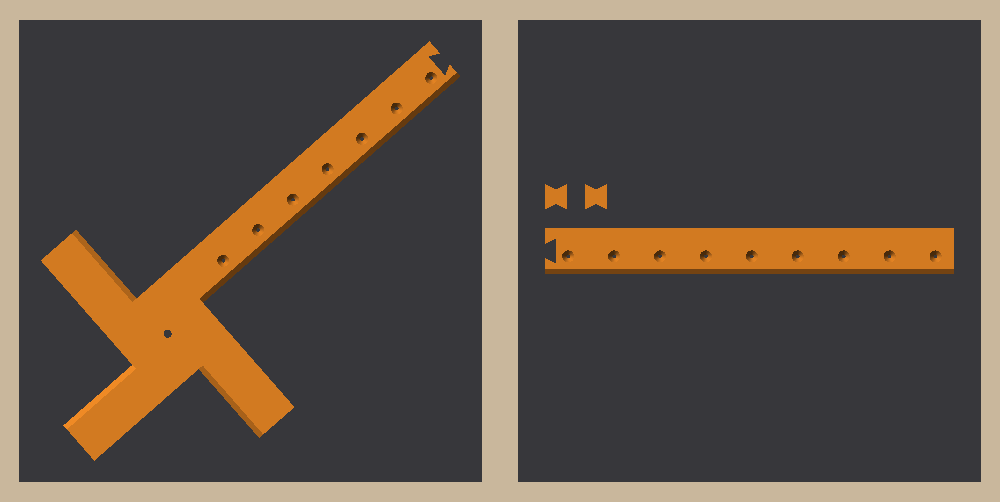
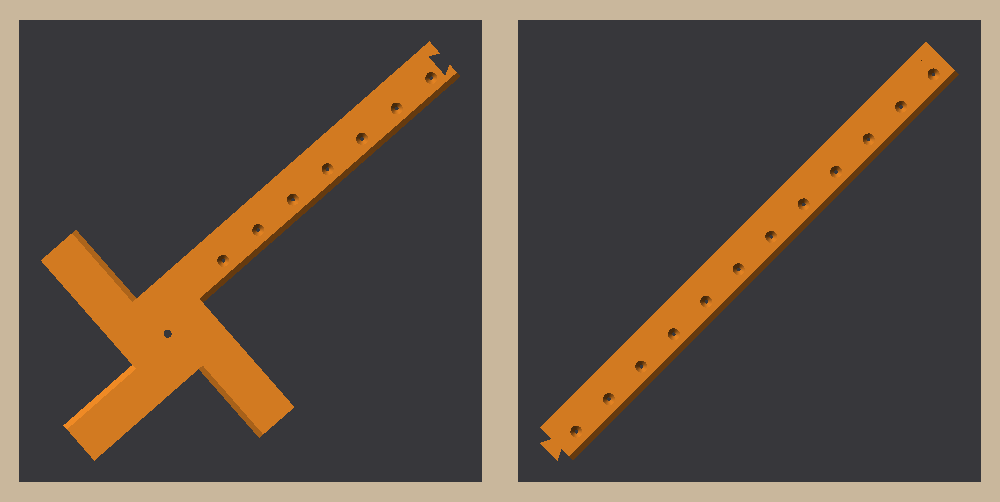
Circle jig: 20" radius on two plates, the key built onto the extension as a dovetail tab

Changed region(s): [[0.527, 0.0896, 0.961, 0.9263], [0.527, 0.3586, 0.62, 0.4183]]

diff --git a/examples/circle-jig/circle_jig/parts.py b/examples/circle-jig/circle_jig/parts.py
@@ -5,13 +5,13 @@ has one straight edge exactly on a radius. Draw along the bar for a radius; turn
 arm's edge lies on that line and the bar is on the next quarter.
 
 The bar is longer than the bed, so it prints as a hub piece (the arms and the bar out past split_after) and a
-straight extension, butted at split_x and locked by a bow-tie key dropped in flush across the seam."""
+straight extension, butted at split_x; a dovetail tab on the extension's end drops into the hub from above."""
 import math
 
 from build123d import Align, Box, Cone, Cylinder, Part, Plane, Polygon, Pos, Rot, Sketch, Text, extrude
 
 from cadkit.plates import Plate
-from cadkit.shapes import bowtie, rect
+from cadkit.shapes import dovetail, rect
 
 from circle_jig.params import P, Params
 
@@ -54,36 +54,29 @@ def jig(p: Params = P) -> Part:
     return out
 
 
-def _piece(p: Params, x0: float, x1: float, label: str) -> Part:
-    """The jig between x0 and x1, less the key's socket."""
+def tab(p: Params, clearance: float = 0.0) -> Part:
+    """Dovetail with its neck on the seam, widening back into the hub (-x); clearance grows it for the socket."""
+    profile = Pos(p.split_x, p.w / 2) * Rot(0, 0, 180) * dovetail(0, 0, p.tab_neck, p.tab_head, p.tab_len, clearance)
+    return Pos(0, 0, -1) * extrude(profile, p.t + 2)
+
+
+def _cut(p: Params, x0: float, x1: float) -> Part:
+    """The jig between x0 and x1."""
     big = 2 * p.bar_len
-    keep = Pos(x0, -big / 2, -1) * Box(x1 - x0, big, p.t + 2, align=(Align.MIN,) * 3)
-    socket = Pos(p.split_x, p.w / 2, -1) * extrude(bowtie(p.key_len, p.key_head, p.key_waist, p.fit_key), p.t + 2)
-    out = Part(((jig(p) & keep) - socket).solids())
-    out.label = label
-    return out
+    return jig(p) & Pos(x0, -big / 2, -1) * Box(x1 - x0, big, p.t + 2, align=(Align.MIN,) * 3)
 
 
 def hub(p: Params = P) -> Part:
-    """The arms and the bar out to the seam: on its own it draws up to split_after inches."""
-    return _piece(p, -2 * p.arm, p.split_x, "circle_jig_hub")
-
-
-def extension(p: Params = P) -> Part:
-    return _piece(p, p.split_x, p.bar_len + 1, "circle_jig_extension")
-
-
-def key(p: Params = P) -> Part:
-    """The bow-tie key in print orientation: flat, in the first quadrant."""
-    out = Pos(p.key_len / 2, p.key_head / 2, 0) * extrude(bowtie(p.key_len, p.key_head, p.key_waist), p.t)
-    out = Part(out.solids())
-    out.label = "circle_jig_key"
+    """The arms and the bar out to the seam, with the socket for the extension's tab: on its own it draws up to
+    split_after inches."""
+    out = Part((_cut(p, -2 * p.arm, p.split_x) - tab(p, p.fit_tab)).solids())
+    out.label = "circle_jig_hub"
     return out
 
 
-def key_in_place(p: Params = P) -> Part:
-    out = Pos(p.split_x - p.key_len / 2, p.w / 2 - p.key_head / 2, 0) * key(p)
-    out.label = "circle_jig_key"
+def extension(p: Params = P) -> Part:
+    out = Part((_cut(p, p.split_x, p.bar_len + 1) + (jig(p) & tab(p))).solids())
+    out.label = "circle_jig_extension"
     return out
 
 
@@ -101,26 +94,20 @@ def bed_angle(p: Params = P) -> float:
     return min((d / 10 for d in range(300, 601)), key=span)
 
 
-def _centred(p: Params, part: Part, dy: float = 0.0) -> Part:
+def _centred(p: Params, part: Part) -> Part:
     bb = part.bounding_box()
     bed_x, bed_y = p.printer.bed, p.printer.bed_y or p.printer.bed
-    out = Pos((bed_x - bb.max.X - bb.min.X) / 2, (bed_y - bb.max.Y - bb.min.Y) / 2 + dy, 0) * part
+    out = Pos((bed_x - bb.max.X - bb.min.X) / 2, (bed_y - bb.max.Y - bb.min.Y) / 2, 0) * part
     out.label = part.label
     return out
 
 
 def plates(p: Params = P) -> list[Plate]:
-    """Hub across the bed's diagonal (with the arms it's longer than the bed is wide); the extension along X with the
-    key, and a spare, beside it."""
+    """Each piece across its bed's diagonal: with the arms the hub is longer than the bed is wide, and so is the
+    extension."""
     turned = Rot(0, 0, bed_angle(p)) * hub(p)
     turned.label = "circle_jig_hub"
-    ext = _centred(p, Pos(-p.split_x, 0, 0) * extension(p))
+    ext = Rot(0, 0, 45) * extension(p)
     ext.label = "circle_jig_extension"
-    gap = 10.0
-    keys = []
-    for i, label in enumerate(("circle_jig_key", "circle_jig_key_spare")):
-        k = Pos(ext.bounding_box().min.X + i * (p.key_len + gap), ext.bounding_box().max.Y + gap, 0) * key(p)
-        k.label = label
-        keys.append(k)
     return [Plate("circle_jig_hub", 1, [("circle_jig_hub", _centred(p, turned))]),
-            Plate("circle_jig_extension", 1, [("circle_jig_extension", ext)] + [(k.label, k) for k in keys])]
+            Plate("circle_jig_extension", 1, [("circle_jig_extension", _centred(p, ext))])]

diff --git a/examples/circle-jig/tests/test_jig.py b/examples/circle-jig/tests/test_jig.py
@@ -1,4 +1,4 @@
-"""Test first: the jig prints flat in two pieces and a key, its straight edges run through the pivot, and every pencil
+"""Test first: the jig prints flat in two pieces joined by a dovetail tab, its straight edges run through the pivot, and every pencil
 hole sits the inches from the screw its number says, all derived from params."""
 import math
 
@@ -10,7 +10,7 @@ from cadkit.checks import downward_faces, off_layer_z, open_edges, printable_pro
 from cadkit.clash import find_clashes
 from circle_jig import build
 from circle_jig.params import INCH, P
-from circle_jig.parts import extension, hub, jig, key, key_in_place, plates
+from circle_jig.parts import extension, hub, jig, plates
 
 LOW = 0.1  # probe height: the bottom, where the pencil runs
 
@@ -21,8 +21,8 @@ def part():
 
 
 @pytest.fixture(scope="module")
-def pieces3():
-    return hub(P), extension(P), key_in_place(P)
+def pieces2():
+    return hub(P), extension(P)
 
 
 def pieces(part, x0, x1, y0, y1, z=LOW):
@@ -43,29 +43,42 @@ def test_every_plate_prints_flat_watertight_on_layers_with_room_round_it(plate):
         assert min(bb.min.X, bb.min.Y, bed_x - bb.max.X, bed_y - bb.max.Y) >= P.printer.margin / 2, name
 
 
-def test_pieces_and_key_make_the_whole_jig(part, pieces3):
-    """Assembled, they're the one-piece jig less the key's fit gap, and touch nowhere but face to face."""
-    assert find_clashes([("hub", pieces3[0]), ("extension", pieces3[1]), ("key", pieces3[2])]) == []
-    total = sum(x.volume for x in pieces3)
-    assert total == pytest.approx(part.volume, rel=1e-4, abs=4 * P.fit_key * P.key_len * P.t)  # text: volume noise
+def test_two_plates_of_one_piece_each():
+    assert [len(pl.items) for pl in plates(P)] == [1, 1]
 
 
-def test_seam_falls_between_holes(pieces3):
-    h, e, _ = pieces3
+def test_pieces_make_the_whole_jig(part, pieces2):
+    """Assembled, they're the one-piece jig less the tab's fit gap, and touch nowhere but face to face."""
+    assert find_clashes([("hub", pieces2[0]), ("extension", pieces2[1])]) == []
+    total = sum(x.volume for x in pieces2)
+    assert total == pytest.approx(part.volume, rel=1e-4, abs=4 * P.fit_tab * P.tab_len * P.t)  # text: volume noise
+
+
+def test_seam_and_tab_fall_between_holes(pieces2):
+    """The butt seam at split_x; the extension's tab reaches back into the hub, clear of the last hub hole."""
+    h, e = pieces2
+    assert e.bounding_box().min.X == pytest.approx(P.split_x - P.tab_len, abs=1e-3)
     assert h.bounding_box().max.X == pytest.approx(P.split_x, abs=1e-3)
-    assert e.bounding_box().min.X == pytest.approx(P.split_x, abs=1e-3)
-    assert P.hole_x(P.split_after * INCH) + P.sink_r < P.split_x - P.key_len / 2
-    assert P.hole_x((P.split_after + 1) * INCH) - P.sink_r > P.split_x + P.key_len / 2
+    assert P.hole_x(P.split_after * INCH) + P.sink_r < P.split_x - P.tab_len - P.fit_tab
+    assert P.hole_x((P.split_after + 1) * INCH) - P.sink_r > P.split_x
 
 
-def test_key_fits_its_socket_with_the_fit(pieces3):
-    """Across the waist on the seam: the socket's width is the key's waist plus the fit each side."""
-    h, e, k = pieces3
-    flare = (P.key_head - P.key_waist) / P.key_len  # extra width per mm off the waist
-    (kb,) = pieces(k, P.split_x - 0.001, P.split_x + 0.001, 0, P.w, z=P.t / 2)
-    assert kb.max.Y - kb.min.Y == pytest.approx(P.key_waist, abs=0.01)
+def test_tab_fits_its_socket_with_the_fit(pieces2):
+    """Across the neck on the seam: the socket is the tab's neck plus the fit each side."""
+    h, e = pieces2
+    flare = (P.tab_head - P.tab_neck) / P.tab_len  # extra width per mm away from the neck
+    (tb,) = pieces(e, P.split_x - 0.002, P.split_x, 0, P.w, z=P.t / 2)
+    assert tb.max.Y - tb.min.Y == pytest.approx(P.tab_neck, abs=0.01 + flare * 0.002)
     a, b = sorted(pieces(h, P.split_x - 0.002, P.split_x, -1, P.w + 1, z=P.t / 2), key=lambda bb: bb.min.Y)
-    assert b.min.Y - a.max.Y == pytest.approx(P.key_waist + 2 * P.fit_key, abs=0.01 + flare * 0.002)
+    assert b.min.Y - a.max.Y == pytest.approx(P.tab_neck + 2 * P.fit_tab, abs=0.01 + flare * 0.002)
+
+
+def test_tab_locks_the_pieces_together(pieces2):
+    """The tab's head is wider than its neck, so the extension can't pull straight off the hub."""
+    h, e = pieces2
+    x = P.split_x - P.tab_len + 0.5
+    (tb,) = pieces(e, x - 0.001, x + 0.001, 0, P.w, z=P.t / 2)
+    assert tb.max.Y - tb.min.Y > P.tab_neck + 2 * P.fit_tab + 1
 
 
 def test_pivot_hole_centred_on_the_origin(part):

diff --git a/examples/circle-jig/circle_jig/params.py b/examples/circle-jig/circle_jig/params.py
@@ -8,7 +8,7 @@ INCH = 25.4
 
 @dataclass(frozen=True)
 class Params:
-    radii_in: tuple = tuple(range(2, 18))  # a pencil hole every inch out from the screw: 2" to 17" (34" circle)
+    radii_in: tuple = tuple(range(2, 21))  # a pencil hole every inch out from the screw: 2" to 20" (40" circle)
     split_after: int = 8  # the bar comes apart past this hole: the hub piece alone draws up to it
     t: float = 6.0  # thickness: stiff over the bar's length
     w: float = 26.0  # width of the bar and of each short arm
@@ -21,10 +21,10 @@ class Params:
     sink_deg: float = 30.0  # from vertical: the cone above the throat that guides a sharpened pencil down
     bevel: float = 3.0  # straight edges bevelled on top (like a ruler) so the line shows right at the edge
     label_size: float = 5.0  # raised inch numbers beside the holes
-    key_len: float = 12.0  # bow-tie key across the seam, flush, through the bar (the railroad's key)
-    key_head: float = 14.0
-    key_waist: float = 8.0
-    fit_key: float = 0.0  # key in its socket: the railroad's fit test (0.05 and 0.10 were loose on this printer)
+    tab_len: float = 6.0  # dovetail tab on the extension's end, dropped into the hub from above (half a bow-tie)
+    tab_head: float = 14.0
+    tab_neck: float = 8.0
+    fit_tab: float = 0.0  # tab in its socket: the railroad's keystone fit test (0.05 and 0.10 were loose)
     label_h: float = 0.6
     filament: int = 1  # AMS slot: orange, easy to see on wood
     printer: Printer = Printer()
@@ -40,9 +40,9 @@ class Params:
         if self.split_after not in self.radii_in[:-1]:
             raise ValueError(f"split_after {self.split_after}: pick a hole from {self.radii_in[:-1]}")
         room = self.hole_x((self.split_after + 1) * INCH) - self.split_x
-        if self.key_len / 2 + self.fit_key + self.sink_r + 1 > room:
-            raise ValueError(f"key {self.key_len} mm long runs into the holes beside the seam: at most "
-                             f"{2 * (room - self.sink_r - 1 - self.fit_key):.1f}")
+        if self.tab_len + self.fit_tab + self.sink_r + 1 > room:
+            raise ValueError(f"tab {self.tab_len} mm long runs into the hole before the seam: at most "
+                             f"{room - self.sink_r - 1 - self.fit_tab:.1f}")
 
     @property
     def radii(self) -> list[float]:

diff --git a/examples/circle-jig/circle_jig/build.py b/examples/circle-jig/circle_jig/build.py
@@ -1,5 +1,6 @@
 """uv run python -m circle_jig.build [--out out]: STEP for CAD (assembled), two plates for your slicer (open orange
-in Bambu Studio), and shaded previews in out/render (iso.png assembled, on_bed.png both plates) to copy to
+in Bambu Studio), and shaded previews in out/render (iso.png assembled, on_bed.png both plates,
+joint.png the tab lifted out of its socket) to copy to
 docs/images/ after a visible change."""
 import argparse
 import sys
@@ -10,7 +11,7 @@ from build123d import Align, Box, Color, Compound, Pos, export_step
 from cadkit.export import write_plates
 from cadkit.render import render
 from circle_jig.params import P
-from circle_jig.parts import extension, hub, key_in_place, plates
+from circle_jig.parts import extension, hub, plates
 
 ORANGE, BED = Color(0.95, 0.55, 0.15), Color(0.25, 0.25, 0.27)
 
@@ -19,7 +20,7 @@ def main(argv: list[str] | None = None) -> int:
     ap = argparse.ArgumentParser(prog="circle_jig.build")
     ap.add_argument("--out", default="out")
     out = Path(ap.parse_args(argv).out)
-    pieces = [hub(P), extension(P), key_in_place(P)]
+    pieces = [hub(P), extension(P)]
     step = out / "step" / "circle_jig.step"
     step.parent.mkdir(parents=True, exist_ok=True)
     export_step(Compound(children=pieces, label="circle_jig"), step)
@@ -33,6 +34,9 @@ def main(argv: list[str] | None = None) -> int:
         shown.append((Pos(dx, 0, -1) * Box(P.printer.bed, bed_y, 1, align=(Align.MIN,) * 3), BED))
         shown += [(Pos(dx, 0, 0) * x, ORANGE) for _, x in plate.items]
     render(shown, out / "render" / "on_bed.png", view=(0, 0, 1), px=1000, crop=True)
+    near = Pos(P.split_x - 40, -30, -1) * Box(80, 90, P.t + 4, align=(Align.MIN,) * 3)
+    render([(pieces[0] & near, ORANGE), (Pos(12, 0, 8) * (pieces[1] & near), ORANGE)], out / "render" / "joint.png",
+           view=(0.5, -1, 1.2), px=700, crop=True)
     print(f"wrote {out}/ (plates.csv lists what to print)")
     return 0
 

diff --git a/examples/circle-jig/README.md b/examples/circle-jig/README.md
@@ -1,25 +1,25 @@
 # Circle jig
 
-<img src="docs/images/iso.png" width="100%" alt="the jig assembled: hub with three short arms, bar out to 17 inches">
-<img src="docs/images/on_bed.png" width="100%" alt="the two plates: hub across the diagonal, extension and two keys">
+<img src="docs/images/iso.png" width="100%" alt="the jig assembled: hub with three short arms, bar out to 20 inches">
+<img src="docs/images/on_bed.png" width="64%" alt="the two plates, each piece across its bed's diagonal"> <img src="docs/images/joint.png" width="34%" alt="the extension's dovetail tab lifted out of the hub's socket">
 
-A trammel for marking a circle up to 34" across (17" radius) on a board and splitting it into four exact quarters.
+A trammel for marking a circle up to 40" across (20" radius) on a board and splitting it into four exact quarters.
 It turns on a screw at the centre; a pencil in one of the holes draws the circle. The bar and the three short arms
 each have one straight edge that lies exactly on a line through the screw (bevelled on top like a ruler, so you see
 the line right at the edge), a quarter turn apart.
 
-- Pencil holes every inch from 2" to 17", numbered by **inches from the screw** (the radius). A sharp pencil (or a
+- Pencil holes every inch from 2" to 20", numbered by **inches from the screw** (the radius). A sharp pencil (or a
   0.5 mm mechanical one) drops down the cone onto the hole's centre.
 - Pivot: a #8 wood screw (4.5 mm hole), not tightened, so the jig turns on it.
-- Two pieces, 442 mm from the screw to the bar's end: the **hub** (arms and the bar to the 8" hole: on its own it
-  draws up to 8") and the **extension** (9" to 17"), butted between the 8 and 9 holes and locked by a bow-tie key
-  pressed in flush from the top. The key has no clearance, the fit the railroad's keystone test settled on.
-- Orange PLA, AMS slot 1, no supports, two plates: hub across the bed's diagonal (35 g), extension with the key and a
-  spare (19 g).
+- Two pieces, 518 mm from the screw to the bar's end: the **hub** (arms and the bar to the 8" hole: on its own it
+  draws up to 8") and the **extension** (9" to 20"), butted between the 8 and 9 holes. A dovetail tab on the
+  extension's end presses down into a socket in the hub, flush. It has no clearance, the fit the railroad's
+  keystone test settled on.
+- Orange PLA, AMS slot 1, no supports, two plates, each piece across its bed's diagonal: hub 35 g, extension 25 g.
 
 **Putting it together:** lay both pieces upside down on something flat with the bevelled edge against a straightedge,
-press the key in, and run a little CA glue along the seam. The glue stops any kink at the joint, so the long edge
-stays a true radius.
+press the tab into its socket, and run a little CA glue along the seam. The glue stops any kink at the joint, so the
+long edge stays a true radius.
 
 **Using it**
 
@@ -31,7 +31,7 @@ stays a true radius.
 5. Lift the jig and join the lines across the screw hole with a ruler.
 
 Keep the pencil tight against the edge the same way each time, and line the arm up over its whole 2" length:
-that's about ±2 mm at 17" out, which the last-turn check shows up.
+that's about ±2 mm at 20" out, which the last-turn check shows up.
 
 ```bash
 uv sync

diff --git a/examples/circle-jig/docs/specs/circle-jig.md b/examples/circle-jig/docs/specs/circle-jig.md
@@ -28,3 +28,8 @@ quarter lines, "or slightly offset so I can use it as a straight edge".
   midway between the 8 and 9 holes, clear of both, locked by the railroad's bow-tie key (12 × 14 × 8 mm waist) flush
   through the bar at zero clearance (`fit_key`, from the railroad's fit test), and are glued with CA against a
   straightedge so the edge can't kink at the seam. A spare key prints with the extension.
+- 2026-10-29: **20" radius (40" circle), two parts, no separate key** (the user: as big as two plates allow, and
+  the bow-tie on the end of one piece). The extension now prints across its bed's diagonal too, which allows a bar
+  to about 20.5"; holes 2" to 20". The loose key became half a bow-tie: a dovetail tab on the extension's end
+  (8 mm neck, 14 mm head, 6 mm long, `fit_tab` 0) dropped into a socket in the hub. The seam stays midway between
+  the 8 and 9 holes. Still glued against a straightedge.

diff --git a/CLAUDE.md b/CLAUDE.md
@@ -40,9 +40,9 @@
 - `examples/lamp-chimney/`: a white replacement for a lamp's broken glass chimney (package `lamp_chimney`): Ø40
   foot into the gallery's spring tabs, one-line (0.42 mm) wall, rounded 45-degree shoulder to a Ø26 neck,
   131 mm; printed in spiral (vase) mode over a solid foot, brims inside and out, set in the project.
-- `examples/circle-jig/`: a trammel for marking circles of 2"–17" radius in four exact quarters (package
+- `examples/circle-jig/`: a trammel for marking circles of 2"–20" radius in four exact quarters (package
   `circle_jig`): a pinwheel whose bar and three short arms each have a straight edge on a line through the pivot
-  screw; the bar prints as a hub piece and an extension joined by a bow-tie key.
+  screw; the bar prints as a hub piece and an extension that dovetails into it, each across its own plate.
 
 ## Commands
 
